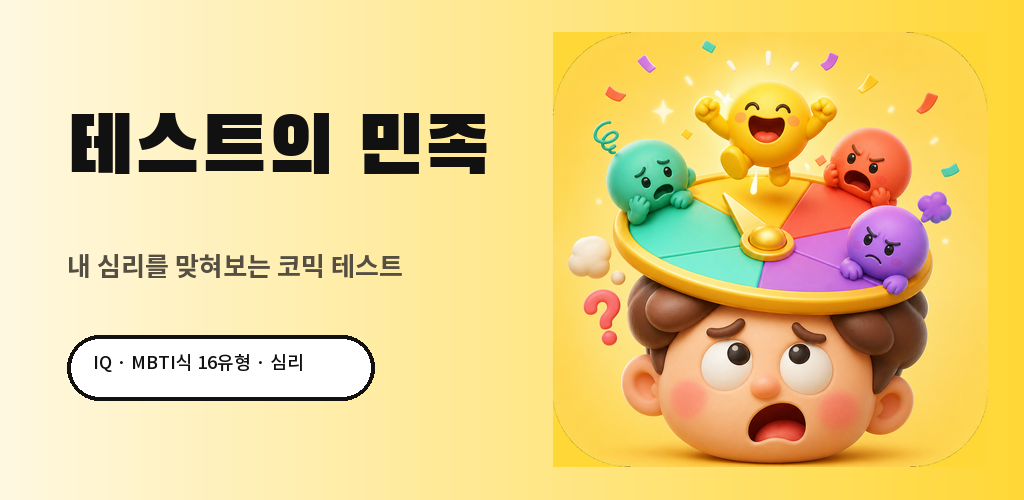
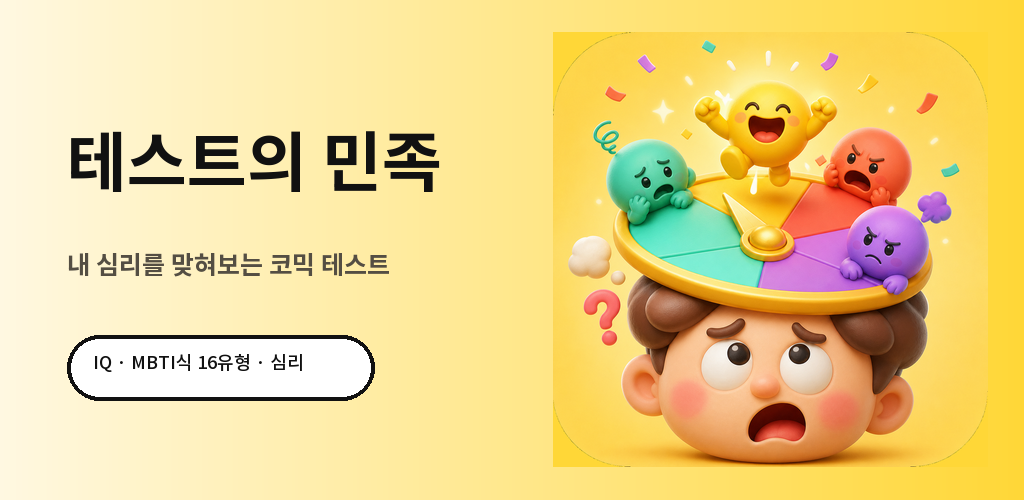
피처 그래픽 한글 가독성 개선

Changed region(s): [[0.0625, 0.21, 0.5, 0.39], [0.0625, 0.51, 0.4062, 0.57]]

diff --git a/tools/make-icons.py b/tools/make-icons.py
@@ -86,8 +86,10 @@ def draw_marketing_canvas(icon: Image.Image, size: tuple[int, int]) -> Image.Ima
     width, height = size
     image = gradient(size)
     draw = ImageDraw.Draw(image)
-    title_font = font("assets/fonts/BlackHanSans_400Regular.ttf", round(height * 0.16))
-    subtitle_font = font("assets/fonts/NotoSansKR_700Bold.ttf", round(height * 0.052))
+    # Play 피처 그래픽은 작은 썸네일에서도 한글 자소가 또렷해야 한다. 장식체는
+    # '의'와 인접 글자가 뭉쳐 보일 수 있어 제목도 Noto Sans KR로 통일한다.
+    title_font = font("assets/fonts/NotoSansKR_700Bold.ttf", round(height * 0.13))
+    subtitle_font = font("assets/fonts/NotoSansKR_700Bold.ttf", round(height * 0.050))
     small_font = font("assets/fonts/NotoSansKR_500Medium.ttf", round(height * 0.035))
 
     icon_size = round(height * 0.87)
